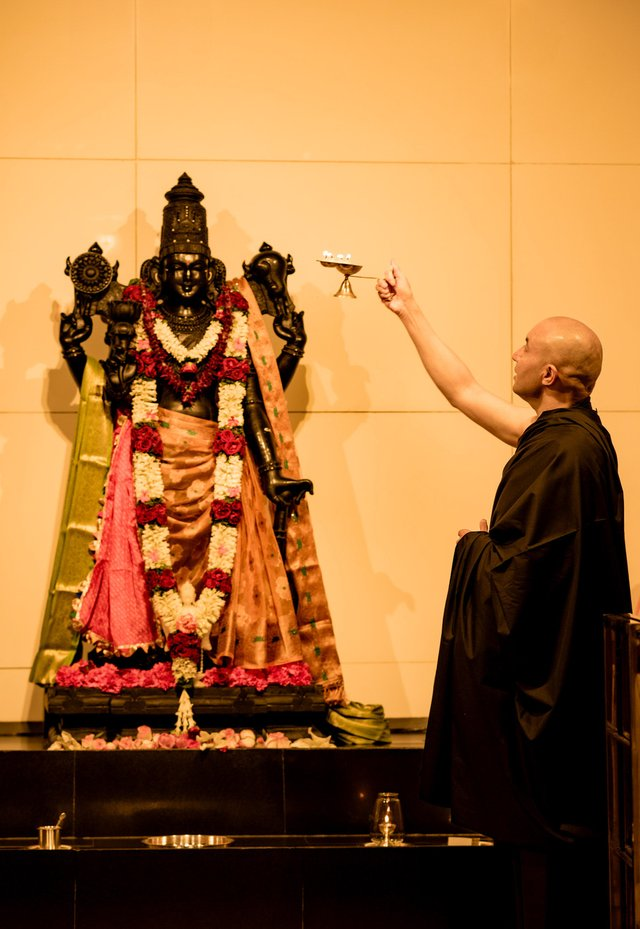
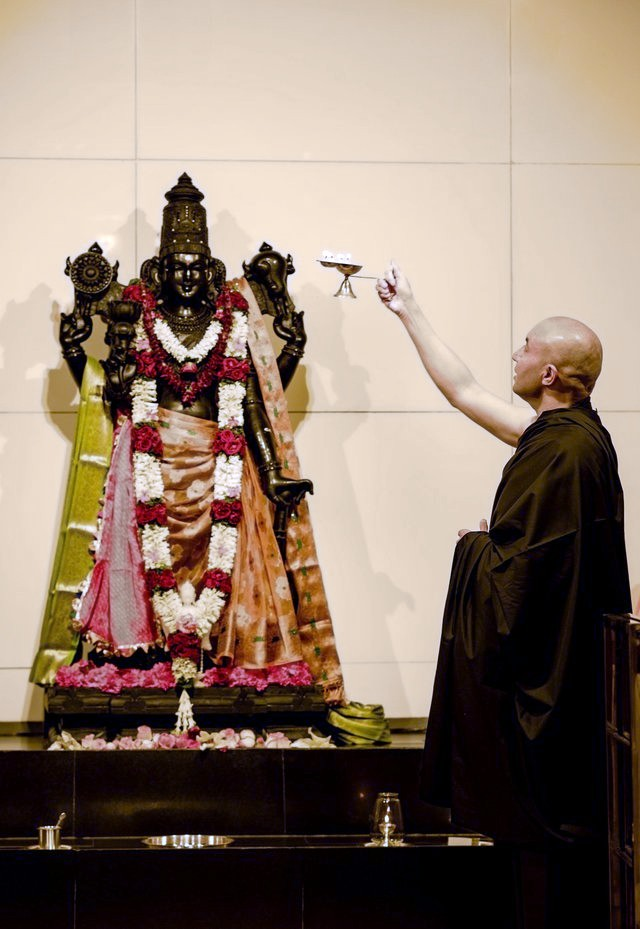
v2: match the four offering photos to one room and colour grade

diff --git a/v2/make-offering.html b/v2/make-offering.html
@@ -103,19 +103,19 @@
           </label>
           <label class="mo-off">
             <input type="checkbox" name="offering" value="aarti">
-            <span class="mo-off-img"><img src="assets/offering-aarti-card.jpg?v=3" width="640" height="928" alt="Om Swami offering the Aarti lamp to Sri Hari, adorned in silk and garlands" loading="lazy"></span>
+            <span class="mo-off-img"><img src="assets/offering-aarti-card.jpg?v=4" width="640" height="928" alt="Om Swami offering the Aarti lamp to Sri Hari, adorned in silk and garlands" loading="lazy"></span>
             <span class="mo-off-check" aria-hidden="true"></span>
             <span class="mo-off-body"><b><i class="mo-dot" style="--c: var(--c-aarti)" aria-hidden="true"></i>Aarti</b><small>The lamp offered with the Sri Hari Aarti</small><em class="mo-off-fee" data-fee="aarti"></em></span>
           </label>
           <label class="mo-off">
             <input type="checkbox" name="offering" value="sahasranama">
-            <span class="mo-off-img"><img src="assets/offering-sahasranama-card.jpg?v=2" width="640" height="928" alt="The idol of Sri Hari in a white and gold dhoti, with a garland of white and yellow flowers" loading="lazy"></span>
+            <span class="mo-off-img"><img src="assets/offering-sahasranama-card.jpg?v=4" width="640" height="928" alt="The idol of Sri Hari in a white and gold dhoti, with a garland of white and yellow flowers" loading="lazy"></span>
             <span class="mo-off-check" aria-hidden="true"></span>
             <span class="mo-off-body"><b><i class="mo-dot" style="--c: var(--c-sahasranama)" aria-hidden="true"></i>Sahasranama</b><small>A thousand names chanted for you</small><em class="mo-off-fee" data-fee="sahasranama"></em></span>
           </label>
           <label class="mo-off">
             <input type="checkbox" name="offering" value="sringar">
-            <span class="mo-off-img"><img src="assets/offering-sringar-card.jpg?v=2" width="640" height="928" alt="The idol of Sri Hari adorned in golden silk, with a garland of flowers" loading="lazy"></span>
+            <span class="mo-off-img"><img src="assets/offering-sringar-card.jpg?v=4" width="640" height="928" alt="The idol of Sri Hari adorned in golden silk, with a garland of flowers" loading="lazy"></span>
             <span class="mo-off-check" aria-hidden="true"></span>
             <span class="mo-off-body"><b><i class="mo-dot" style="--c: var(--c-sringar)" aria-hidden="true"></i>Sringar</b><small>Adorning the Lord in silk and flowers</small><em class="mo-off-fee" data-fee="sringar"></em></span>
           </label>

diff --git a/v2/offerings.html b/v2/offerings.html
@@ -133,7 +133,7 @@
     <figure class="off-media">
       <div class="off-frame">
         <div class="off-photo" style="--w:111.82%;--h:115.45%;--l:-6.43%;--t:-11.44%">
-          <img src="assets/offering-aarti.jpg?v=3" width="933" height="1400" alt="Om Swami offering the Aarti lamp to Sri Hari, adorned in silk and garlands" loading="lazy">
+          <img src="assets/offering-aarti.jpg?v=4" width="933" height="1400" alt="Om Swami offering the Aarti lamp to Sri Hari, adorned in silk and garlands" loading="lazy">
         </div>
       </div>
     </figure>
@@ -161,7 +161,7 @@
     <figure class="off-media">
       <div class="off-frame">
         <div class="off-photo" style="--w:111.82%;--h:115.45%;--l:-6.43%;--t:-3.57%">
-          <img src="assets/offering-sahasranama.jpg?v=2" width="750" height="1125" alt="The idol of Sri Hari in a white and gold dhoti, with a garland of white and yellow flowers" loading="lazy">
+          <img src="assets/offering-sahasranama.jpg?v=4" width="750" height="1125" alt="The idol of Sri Hari in a white and gold dhoti, with a garland of white and yellow flowers" loading="lazy">
         </div>
       </div>
     </figure>
@@ -186,7 +186,7 @@
     <figure class="off-media">
       <div class="off-frame">
         <div class="off-photo" style="--w:115.22%;--h:105.81%;--l:-7.65%;--t:-3.1%">
-          <img src="assets/offering-sringar.jpg?v=2" width="750" height="1001" alt="The idol of Sri Hari adorned in golden silk, with a garland of flowers" loading="lazy">
+          <img src="assets/offering-sringar.jpg?v=4" width="750" height="1001" alt="The idol of Sri Hari adorned in golden silk, with a garland of flowers" loading="lazy">
         </div>
       </div>
     </figure>
